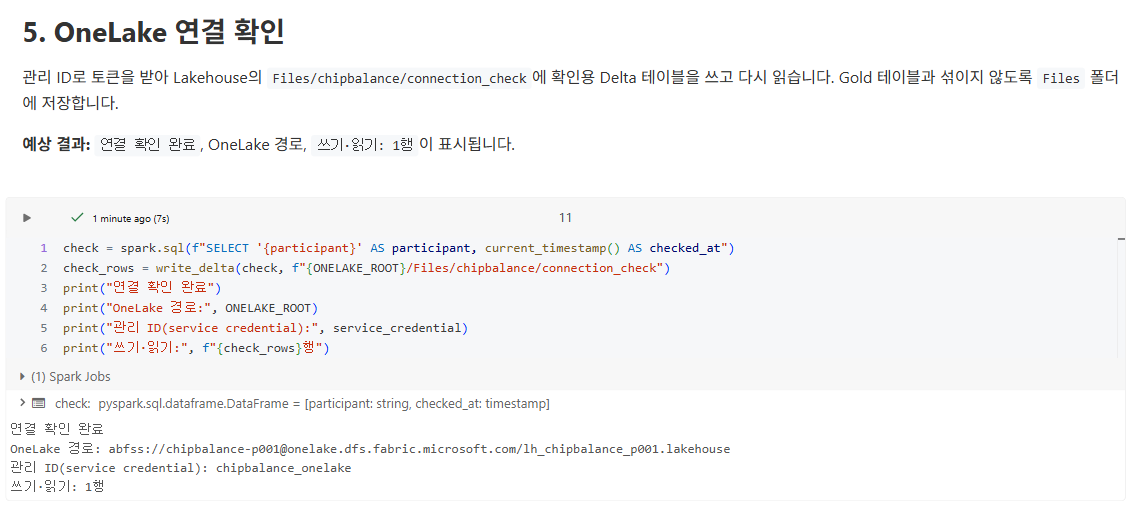
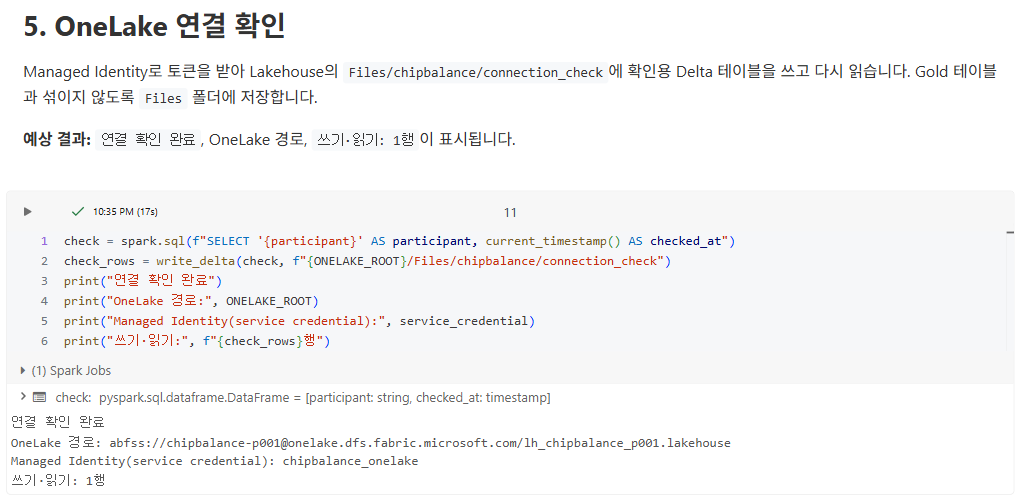
Notebooks 01 and 05: Managed Identity wording; retake chapter 01 settings and connection screenshots

diff --git a/src/notebooks/01_setup.py b/src/notebooks/01_setup.py
@@ -41,7 +41,7 @@ print("Runtime:", cluster_tag("sparkVersion"))
 # MAGIC | `catalog`, `schema` | `lab_factory`, `chipbalance_p001` | Bronze·Silver·Gold 테이블을 저장하는 Unity Catalog 위치 |
 # MAGIC | `raw_volume` | `/Volumes/lab_factory/chipbalance_p001/raw` | 02에서 SAP·FPIMS·PVSS 원천 파일을 만드는 Volume |
 # MAGIC | `fabric_workspace`, `fabric_lakehouse` | `chipbalance-p001`, `lh_chipbalance_p001` | Gold를 저장하는 Fabric 작업 영역과 Lakehouse |
-# MAGIC | `service_credential` | `chipbalance_onelake` | OneLake에 저장할 때 쓰는 관리 ID |
+# MAGIC | `service_credential` | `chipbalance_onelake` | OneLake에 저장할 때 쓰는 Managed Identity |
 
 # COMMAND ----------
 participant = "p001"
@@ -77,13 +77,13 @@ print("원천 파일 Volume:", raw_volume)
 # MAGIC ## 4. OneLake 저장 함수
 # MAGIC Gold는 Fabric Lakehouse의 `Tables/gold` 폴더에 Delta 테이블로 저장합니다. Fabric은 이 폴더의 테이블을 자동으로 인식합니다.
 # MAGIC
-# MAGIC 인증에는 관리 ID(Managed Identity)를 씁니다. 관리자가 Access Connector의 관리 ID를
+# MAGIC 인증에는 Managed Identity를 씁니다. 관리자가 Access Connector의 Managed Identity를
 # MAGIC Unity Catalog service credential `chipbalance_onelake`로 등록하고, Fabric 작업 영역에 Contributor 권한을 주었습니다.
 # MAGIC Notebook에는 비밀번호나 키를 넣지 않습니다. 저장할 때마다 service credential에서 토큰을 받아 씁니다.
 # MAGIC
 # MAGIC | 함수 | 하는 일 |
 # MAGIC |---|---|
-# MAGIC | `onelake_options` | 관리 ID 토큰을 받아 OneLake 접속 옵션을 만듭니다. |
+# MAGIC | `onelake_options` | Managed Identity 토큰을 받아 OneLake 접속 옵션을 만듭니다. |
 # MAGIC | `write_delta` | Spark DataFrame을 OneLake 경로에 Delta 형식으로 덮어써서 저장하고, 저장된 행 수를 돌려줍니다. |
 # MAGIC | `write_gold` | `Tables/gold/<테이블 이름>`에 저장합니다. `05_gold`와 `06_emergency_order`에서 씁니다. 소수(`DECIMAL`) 열은 `DOUBLE`로 바꿔 저장합니다. Fabric Ontology가 `DECIMAL`을 읽지 못하기 때문입니다. |
 
@@ -143,7 +143,7 @@ def write_gold(df, table):
 # COMMAND ----------
 # MAGIC %md
 # MAGIC ## 5. OneLake 연결 확인
-# MAGIC 관리 ID로 토큰을 받아 Lakehouse의 `Files/chipbalance/connection_check`에 확인용 Delta 테이블을 쓰고 다시 읽습니다.
+# MAGIC Managed Identity로 토큰을 받아 Lakehouse의 `Files/chipbalance/connection_check`에 확인용 Delta 테이블을 쓰고 다시 읽습니다.
 # MAGIC Gold 테이블과 섞이지 않도록 `Files` 폴더에 저장합니다.
 # MAGIC
 # MAGIC **예상 결과:** `연결 확인 완료`, OneLake 경로, `쓰기·읽기: 1행`이 표시됩니다.
@@ -153,5 +153,5 @@ check = spark.sql(f"SELECT '{participant}' AS participant, current_timestamp() A
 check_rows = write_delta(check, f"{ONELAKE_ROOT}/Files/chipbalance/connection_check")
 print("연결 확인 완료")
 print("OneLake 경로:", ONELAKE_ROOT)
-print("관리 ID(service credential):", service_credential)
+print("Managed Identity(service credential):", service_credential)
 print("쓰기·읽기:", f"{check_rows}행")

diff --git a/src/notebooks/05_gold.py b/src/notebooks/05_gold.py
@@ -290,7 +290,7 @@ display(spark.createDataFrame([(f"gold_{t}", spark.table(f"gold_{t}").count()) f
 # MAGIC ## 10. OneLake에 저장
 # MAGIC Gold 테이블 18개를 Fabric Lakehouse `lh_chipbalance_<참가자 번호>`의 `gold` 스키마에 저장합니다.
 # MAGIC 이름에서 `gold_`를 뺍니다. 예를 들어 `gold_fact_balance`는 Lakehouse의 `gold.fact_balance`가 됩니다.
-# MAGIC 관리 ID로 저장하며, 다시 실행하면 덮어씁니다. 소수 열(`actual_kg_per_kg` 등)은 `DOUBLE`로 저장됩니다.
+# MAGIC Managed Identity로 저장하며, 다시 실행하면 덮어씁니다. 소수 열(`actual_kg_per_kg` 등)은 `DOUBLE`로 저장됩니다.
 # MAGIC
 # MAGIC **예상 결과:** 18행. `Unity Catalog 행 수`와 `OneLake 행 수`가 모두 같습니다. (2~3분)
 

diff --git a/docs/01-connect.rst b/docs/01-connect.rst
@@ -150,7 +150,7 @@ Compute가 중지되어 있으면 시작하는 데 3~5분 걸립니다.
    **예상 결과:** ``연결 확인 완료``, OneLake 경로, ``쓰기·읽기: 1행``\ 이 표시됩니다.
 
    .. image:: ../assets/screenshots/d01-connection.png
-      :alt: 5. OneLake 연결 확인 셀. 결과에 연결 확인 완료, OneLake 경로 abfss://chipbalance-p001@onelake.dfs.fabric.microsoft.com/lh_chipbalance_p001.lakehouse, 관리 ID(service credential) chipbalance_onelake, 쓰기·읽기 1행이 표시됩니다.
+      :alt: 5. OneLake 연결 확인 셀. 결과에 연결 확인 완료, OneLake 경로 abfss://chipbalance-p001@onelake.dfs.fabric.microsoft.com/lh_chipbalance_p001.lakehouse, Managed Identity(service credential) chipbalance_onelake, 쓰기·읽기 1행이 표시됩니다.
       :width: 900
 
 6. Fabric에서 확인하기
